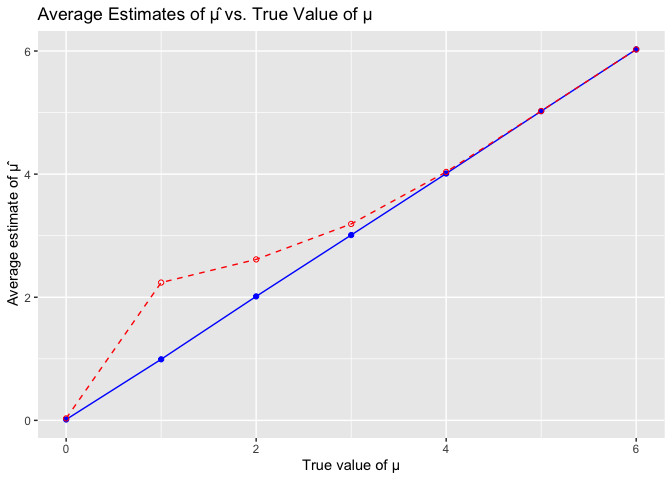
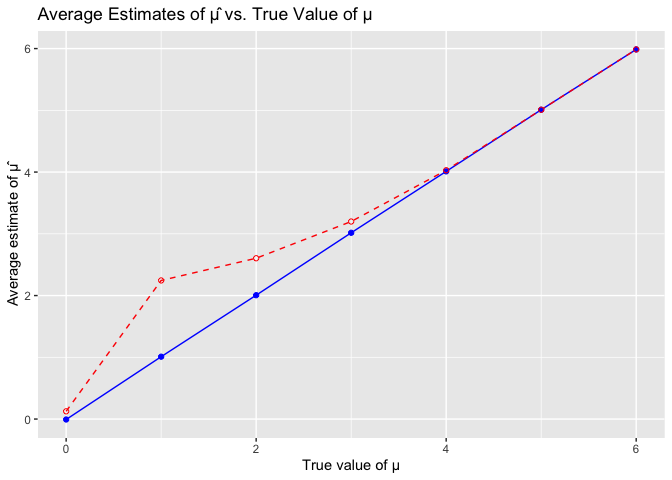
add some descriptions in problem three discussion

diff --git a/p8105_hw5_xw2962.md b/p8105_hw5_xw2962.md
@@ -300,18 +300,18 @@ print(simulation_results)
 ```
 
     ## # A tibble: 35,000 × 4
-    ##    mu_hat p_value true_mu rejected
-    ##     <dbl>   <dbl>   <dbl> <lgl>   
-    ##  1  1.73   0.0662       0 FALSE   
-    ##  2 -0.283  0.781        0 FALSE   
-    ##  3 -0.977  0.247        0 FALSE   
-    ##  4 -0.340  0.698        0 FALSE   
-    ##  5  0.619  0.466        0 FALSE   
-    ##  6  1.71   0.0449       0 TRUE    
-    ##  7 -0.172  0.861        0 FALSE   
-    ##  8  0.290  0.765        0 FALSE   
-    ##  9 -1.33   0.137        0 FALSE   
-    ## 10  0.375  0.685        0 FALSE   
+    ##     mu_hat p_value true_mu rejected
+    ##      <dbl>   <dbl>   <dbl> <lgl>   
+    ##  1  1.19    0.267        0 FALSE   
+    ##  2 -0.0238  0.975        0 FALSE   
+    ##  3 -1.47    0.107        0 FALSE   
+    ##  4  1.82    0.0564       0 FALSE   
+    ##  5  0.183   0.846        0 FALSE   
+    ##  6 -1.03    0.314        0 FALSE   
+    ##  7  0.761   0.361        0 FALSE   
+    ##  8  0.453   0.617        0 FALSE   
+    ##  9 -1.42    0.159        0 FALSE   
+    ## 10  1.20    0.171        0 FALSE   
     ## # ℹ 34,990 more rows
 
 ``` r
@@ -328,13 +328,13 @@ print(power_and_estimates)
     ## # A tibble: 7 × 3
     ##   true_mu  power average_mu_hat
     ##     <dbl>  <dbl>          <dbl>
-    ## 1       0 0.0512         0.0141
-    ## 2       1 0.184          0.992 
-    ## 3       2 0.585          2.01  
-    ## 4       3 0.892          3.01  
-    ## 5       4 0.989          4.01  
-    ## 6       5 0.999          5.02  
-    ## 7       6 1              6.03
+    ## 1       0 0.0528       -0.00741
+    ## 2       1 0.193         1.01   
+    ## 3       2 0.574         2.01   
+    ## 4       3 0.891         3.02   
+    ## 5       4 0.992         4.01   
+    ## 6       5 1             5.01   
+    ## 7       6 1             5.99
 
 #### Make a plot showing the the power of the test on the y axis and the true value of μ on the x axis.
 
@@ -397,13 +397,19 @@ ggplot(average_estimates, aes(x = true_mu)) +
 
 #### Discussion
 
+This plot compares the average estimated mu with the true mu. The blue
+line shows the average estimate across all tests, and the red line shows
+the average estimate when the null hypothesis is rejected.
+
 No, the sample average of μ^. across tests for which the null is
 rejected is not always approximately equal to the true value of μ. This
 discrepancy is because when the null hypothesis is true (or the true
 effect is very small), rejecting the null hypothesis is often a result
 of sampling variability that leads to an overestimation of the true
-effect size. This could be due to a Type II error, which occurs when a
-false null hypothesis is not rejected. As the true mean (μ) increases,
-the rate of Type II error decreases, enhancing the test’s power. This
-results in a greater likelihood of rejecting the null hypothesis and
-yields a more precise estimation of the μ value.
+effect size.
+
+This could be due to a Type II error, which occurs when a false null
+hypothesis is not rejected. As the true mean (μ) increases, the rate of
+Type II error decreases, enhancing the test’s power. This results in a
+greater likelihood of rejecting the null hypothesis and yields a more
+precise estimation of the μ value.
